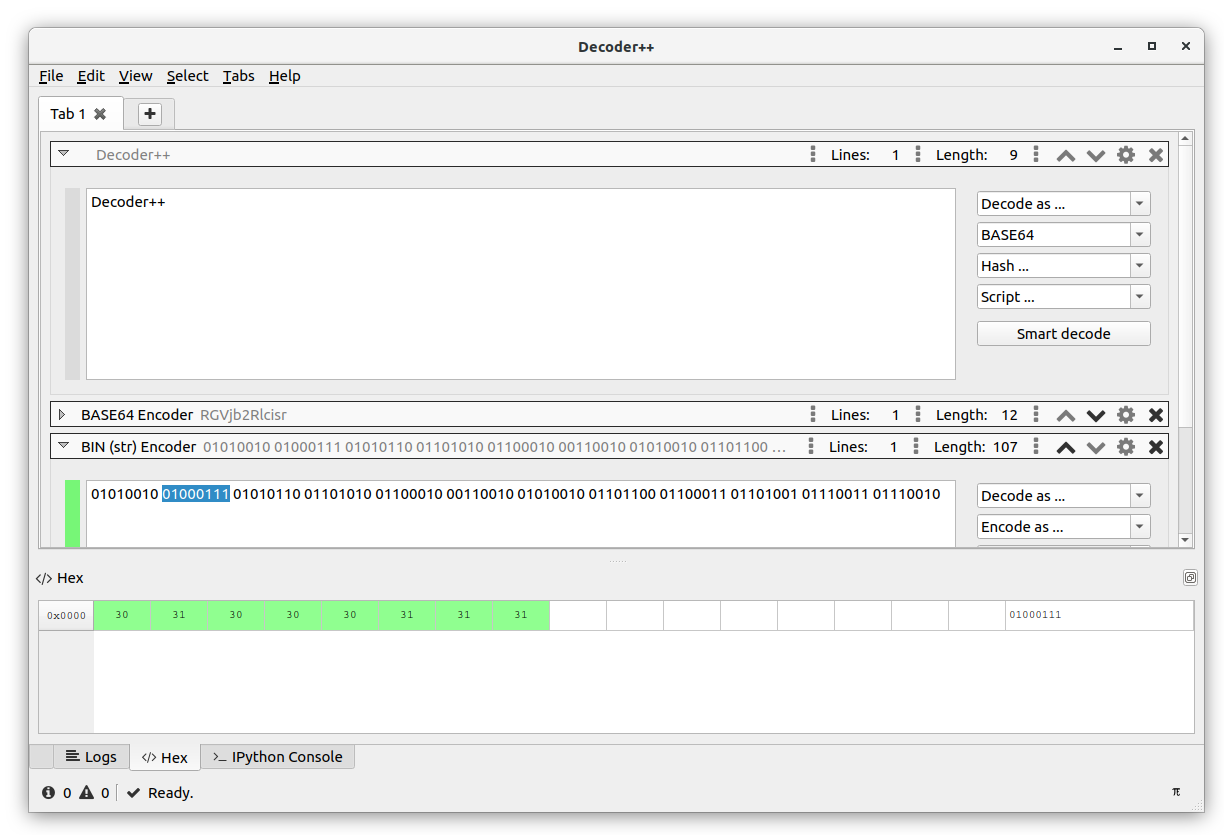
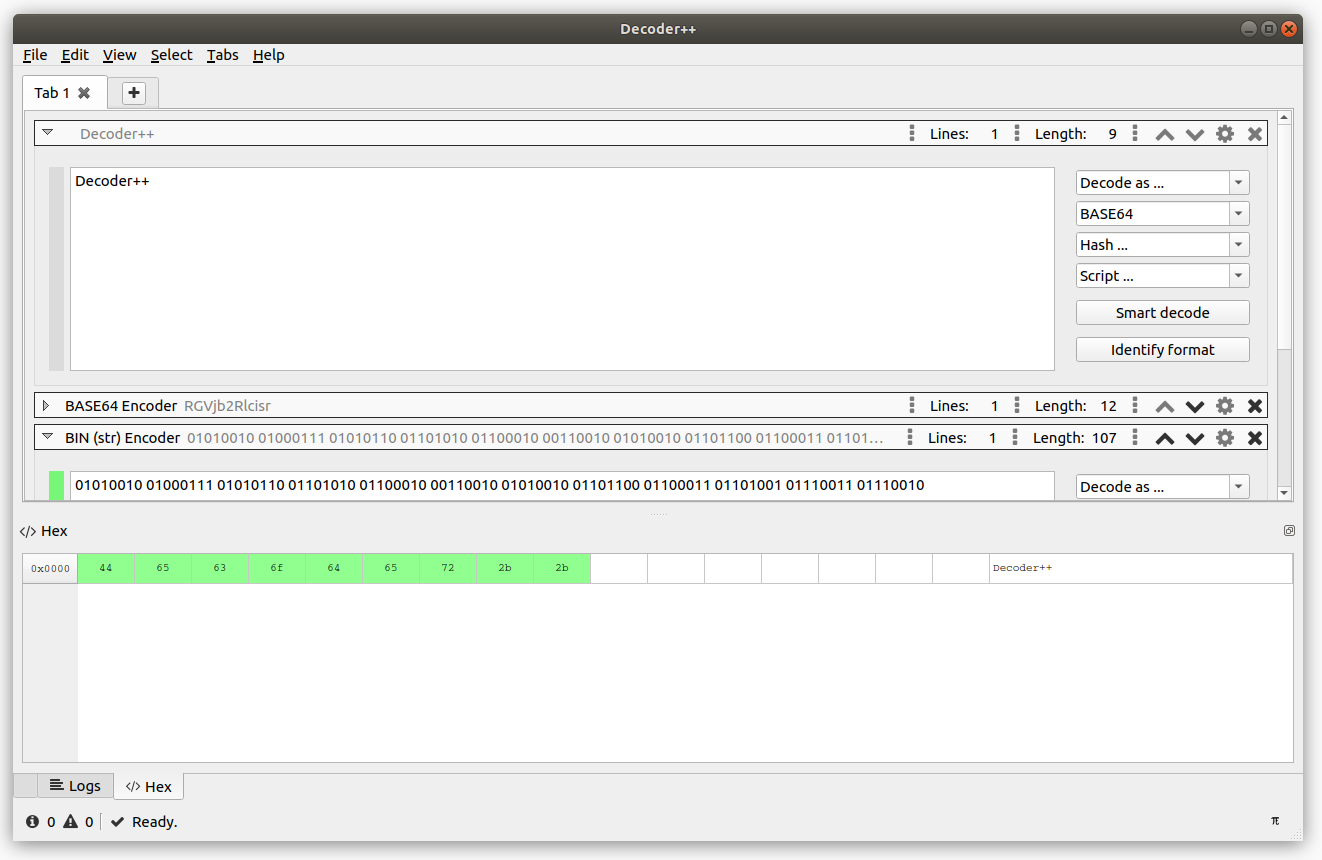
#37 Feature: Identify format button

Changed region(s): [[0.0, 0.0, 0.9935, 0.9964], [0.8072, 0.7162, 0.8693, 0.7473]]

diff --git a/dpp/ui/main_window_widget.py b/dpp/ui/main_window_widget.py
@@ -153,12 +153,12 @@ class MainWindowWidget(QWidget):
         self._register_shortcut(Context.Shortcut.FOCUS_INPUT_TEXT_NEXT,
                                 "Select &Next Text Field",
                                 "Alt+Down",
-                                lambda: self._focus_input_text(lambda frame: frame.next()),
+                                lambda: self._focus_input_text(lambda frame: frame.getNextFrame()),
                                 select_menu)
         self._register_shortcut(Context.Shortcut.FOCUS_INPUT_TEXT_PREVIOUS,
                                 "Select &Previous Text Field",
                                 "Alt+Up",
-                                lambda: self._focus_input_text(lambda frame: frame.previous()),
+                                lambda: self._focus_input_text(lambda frame: frame.getPreviousFrame()),
                                 select_menu)
         return select_menu
 
@@ -167,7 +167,7 @@ class MainWindowWidget(QWidget):
         self._register_shortcut(Context.Shortcut.TAB_RENAME,
                                 "&Rename Tab",
                                 "Alt+Shift+R",
-                                lambda: self._tabs.tabBar().rename_tab(),
+                                lambda: self._tabs.tabBar().renameTab(),
                                 tab_menu)
         self._register_shortcut(Context.Shortcut.TAB_DUPLICATE,
                                 "&Duplicate Tab",
@@ -253,14 +253,14 @@ class MainWindowWidget(QWidget):
             future_frame = callback(frame) or frame
             future_frame.focusInputText()
             # Collapse/Uncollapse frames automatically.
-            if self._tabs.currentWidget().getFramesCount() > 2:
+            if self._tabs.currentWidget().frames().getFramesCount() > 2:
                 if frame != future_frame:
                     if future_frame.isCollapsed():
-                        if future_frame.hasPrevious():
+                        if future_frame.hasPreviousFrame():
                             # Toggle frame, except the first frame which does not have a header
                             future_frame.toggleCollapsed()
                     if not frame.wasCollapseStateChangedByUser():
-                        if frame.hasPrevious():
+                        if frame.hasPreviousFrame():
                             # Collapse frame, except the first frame which does not have a header
                             frame.toggleCollapsed()
 

diff --git a/dpp/ui/codec_frame.py b/dpp/ui/codec_frame.py
@@ -27,6 +27,7 @@ from dpp.ui.codec_frame_header import CodecFrameHeader
 from dpp.ui.combo_box_frame import ComboBoxFrame
 from dpp.ui.view.plain_view import PlainView
 from dpp.ui.widget.collapsible_frame import CollapsibleFrame
+from dpp.ui.widget.identify_format_button import IdentifyFormatButton
 from dpp.ui.widget.smart_decode_button import SmartDecodeButton
 from dpp.ui.widget.status_widget import StatusWidget
 
@@ -109,6 +110,9 @@ class CodecFrame(CollapsibleFrame):
         self._smart_decode_button = SmartDecodeButton(self, self._plugins.filter(type=PluginType.DECODER))
         self._smart_decode_button.clicked.connect(self._smart_decode_button_click_event)
         button_frame_layout.addWidget(self._smart_decode_button)
+        self._identify_format_button = IdentifyFormatButton(self, self._plugins.filter(type=PluginType.IDENTIFY))
+        self._identify_format_button.clicked.connect(self._identify_format_button_click_event)
+        button_frame_layout.addWidget(self._identify_format_button)
         button_frame_layout.addWidget(VSpacer(self))
         button_frame.setLayout(button_frame_layout)
         return button_frame
@@ -141,6 +145,8 @@ class CodecFrame(CollapsibleFrame):
 
     def _smart_decode_button_click_event(self):
         input = self._plain_view_widget.toPlainText()
+        if not input:
+            return None
         # TODO: Split Button and Processing
         decoders = self._smart_decode_button.get_possible_decoders(input)
         if not decoders:
@@ -156,6 +162,17 @@ class CodecFrame(CollapsibleFrame):
         decoder = decoders[0]
         self._logger.info("Possible match: {}".format(decoder.title()))
         self.selectComboBoxEntryByPlugin(decoder)
+
+    def _identify_format_button_click_event(self):
+        input = self._plain_view_widget.toPlainText()
+        if not input:
+            return None
+        for decoder in self._smart_decode_button.get_possible_decoders(input):
+            self._logger.info("{}: {}".format("Identify Decoder", decoder.name()))
+        for identifier in self._identify_format_button.get_possible_identifiers(input):
+            result = identifier.run(input)
+            for item in result.splitlines():
+                self._logger.info("{}: {}".format(identifier.name(), item))
 
     def id(self) -> str:
         return self._frame_id

diff --git a/dpp/ui/widget/identify_format_button.py b/dpp/ui/widget/identify_format_button.py
@@ -1,0 +1,62 @@
+# vim: ts=8:sts=8:sw=8:noexpandtab
+#
+# This file is part of Decoder++
+#
+# This program is free software; you can redistribute it and/or modify
+# it under the terms of the GNU General Public License as published by
+# the Free Software Foundation; either version 2 of the License, or
+# (at your option) any later version.
+#
+# This program is distributed in the hope that it will be useful,
+# but WITHOUT ANY WARRANTY; without even the implied warranty of
+# MERCHANTABILITY or FITNESS FOR A PARTICULAR PURPOSE. See the
+# GNU General Public License for more details.
+#
+# You should have received a copy of the GNU General Public License
+# along with this program.  If not, see <http://www.gnu.org/licenses/>.
+from typing import List
+
+from PyQt5.QtCore import pyqtSignal
+from PyQt5.QtWidgets import QFrame, QHBoxLayout, QPushButton
+
+from dpp.core.plugin import IdentifyPlugin, AbstractPlugin
+
+
+class IdentifyFormatButton(QFrame):
+    """ A button which provides a identify-format functionality. """
+
+    clicked = pyqtSignal()
+
+    def __init__(self, parent, plugins: List[IdentifyPlugin]):
+        super(__class__, self).__init__(parent)
+        self._plugins = plugins
+        layout = QHBoxLayout()
+        layout.setContentsMargins(0, 6, 0, 0)
+        self._button = self._init_button()
+        layout.addWidget(self._button)
+        self.setLayout(layout)
+
+    def _init_button(self):
+        button = QPushButton("Identify format")
+        button.clicked.connect(self._button_click_event)
+        return button
+
+    def _button_click_event(self):
+        """ Forwards the "Identify format" button click event. """
+        self.clicked.emit()
+
+
+    def _test_plugins(self, input, plugins) -> List[AbstractPlugin]:
+        """ Returns a list of plugins which did not threw an error when executing them with the specified input. """
+        plugins_without_error = []
+        for plugin in plugins:
+            try:
+                plugin.select(input)
+                plugins_without_error.append(plugin)
+            except:
+                pass
+        return plugins_without_error
+
+    def get_possible_identifiers(self, input) -> List[str]:
+        """ Returns a list of possible identifiers for the specified input. """
+        return self._test_plugins(input, self._plugins)

diff --git a/dpp/core/plugin.py b/dpp/core/plugin.py
@@ -30,6 +30,7 @@ class PluginType(object):
     ENCODER = "Encoder"
     HASHER = "Hasher"
     SCRIPT = "Script"
+    IDENTIFY = "Identify"
 
 
 class PluginConfig(object):
@@ -271,7 +272,7 @@ class AbstractPlugin(object):
         """
         Initializes a plugin.
         :param name: the name of the plugin.
-        :param type: the type of the plugin (either DECODER, ENCODER, HASHER or SCRIPT).
+        :param type: the type of the plugin (either DECODER, ENCODER, HASHER, SCRIPT, IDENTIFY).
         :param author: the author of the plugin.
         :param dependencies: the dependencies of the plugin (either None or a list of strings).
         :param context: the application context.
@@ -341,7 +342,7 @@ class AbstractPlugin(object):
         return self._method_name
 
     def type(self) -> str:
-        """ :returns the type of the plugin (either DECODER, ENCODER, HASHER or SCRIPT). """
+        """ :returns the type of the plugin (either DECODER, ENCODER, HASHER, SCRIPT, IDENTIFY). """
         return self._type
 
     def title(self) -> str:
@@ -540,6 +541,19 @@ class ScriptPlugin(AbstractPlugin):
         super(__class__, self).__init__(name, PluginType.SCRIPT, author, dependencies, context)
 
 
+class IdentifyPlugin(AbstractPlugin):
+
+    def __init__(self, name: str, author: str, dependencies: List[str], context: 'core.context.Context'):
+        """
+        Initializes a plugin.
+        :param name: the name of the plugin.
+        :param author: the author of the plugin.
+        :param dependencies: the dependencies of the plugin (either None or a list of strings).
+        :param context: the application context.
+        """
+        super(__class__, self).__init__(name, PluginType.IDENTIFY, author, dependencies, context)
+
+
 class NullPlugin(AbstractPlugin):
     """ Implements a plugin which can be used as a Null-Object. """
 
@@ -661,7 +675,7 @@ class Plugins:
 
     def types(self) -> List[str]:
         """ Returns all possible plugin types in a list. """
-        return [PluginType.DECODER, PluginType.ENCODER, PluginType.HASHER, PluginType.SCRIPT]
+        return [PluginType.DECODER, PluginType.ENCODER, PluginType.HASHER, PluginType.SCRIPT, PluginType.IDENTIFY]
 
     def plugins(self) -> List[AbstractPlugin]:
         return self._plugin_list

diff --git a/dpp/runner.py b/dpp/runner.py
@@ -42,7 +42,7 @@ if DPP_PACKAGE_PATH not in sys.path:
 from dpp.core.argparse.ordered_multi_args import OrderedMultiArgs
 from dpp.core.argparse.single_args import SingleArgs
 from dpp.core.context import Context
-from dpp.core.decoder_plus_plus import Decoder, Encoder, Hasher, Script, DecoderPlusPlus
+from dpp.core.decoder_plus_plus import Decoder, Encoder, Hasher, Script, DecoderPlusPlus, Identify
 from dpp.core.plugin import PluginType
 
 from dpp.ui.decoder_plus_plus_gui import DecoderPlusPlusDialog, DecoderPlusPlusWindow
@@ -154,7 +154,13 @@ def init_builder(context: 'dpp.core.context.Context'):
         setattr(clazz, plugin.method_name(), runner(plugin))
 
     plugins = context.plugins()
-    clazz_map = {PluginType.ENCODER: Encoder, PluginType.DECODER: Decoder, PluginType.HASHER: Hasher, PluginType.SCRIPT: Script}
+    clazz_map = {
+        PluginType.ENCODER: Encoder,
+        PluginType.DECODER: Decoder,
+        PluginType.HASHER: Hasher,
+        PluginType.SCRIPT: Script,
+        PluginType.IDENTIFY: Identify
+    }
     for plugin in plugins.plugins():
         if not plugin.type() in clazz_map:
             context.logger().debug("Can not load plugin '{}'! Invalid type '{}'!".format(plugin.name(safe_name=True), plugin.type()))

diff --git a/dpp/core/decoder_plus_plus.py b/dpp/core/decoder_plus_plus.py
@@ -41,6 +41,10 @@ class DecoderPlusPlus(object):
         """ Returns the script interface which encapsulates all possible scripting methods. """
         return Script(self._input)
 
+    def identify(self) -> 'DecoderPlusPlus':
+        """ Returns the identify interface which encapsulates all possible identify methods. """
+        return Identify(self._input)
+
     def run(self):
         """ Starts the transformation process and returns the transformed input. """
         return self._input
@@ -50,3 +54,4 @@ Encoder = type('obj', (DecoderPlusPlus,), {})
 Decoder = type('obj', (DecoderPlusPlus,), {})
 Hasher = type('obj', (DecoderPlusPlus,), {})
 Script = type('obj', (DecoderPlusPlus,), {})
+Identify = type('obj', (DecoderPlusPlus,), {})

diff --git a/dpp/plugins/identify_hash_format_script.py b/dpp/plugins/identify_hash_format_script.py
@@ -1,14 +1,14 @@
-from dpp.core.plugin import ScriptPlugin
+from dpp.core.plugin import IdentifyPlugin
 
 
-class Plugin(ScriptPlugin):
+class Plugin(IdentifyPlugin):
     """
     Identifies the hash format of the input text based on structure.
     """
 
     def __init__(self, context):
         # Name, Author, Dependencies
-        super().__init__('Identify Data Format', "Thomas Engel", ["hashid"], context)
+        super().__init__('Identify Hash Format', "Thomas Engel", ["hashid"], context)
 
     def _detect_hash_format(self, input):
         from hashid import HashID

diff --git a/dpp/ui/codec_frames.py b/dpp/ui/codec_frames.py
@@ -93,7 +93,7 @@ class CodecFrames(QFrame):
             status = StatusWidget.ERROR
             error = str(e)
             self._logger.error('{} {}: {}'.format(plugin.name(), plugin.type(), error))
-            self._logger.exception(e, exc_info=self._context.isDebugModeEnabled())
+            self._logger.exception(error, exc_info=self._context.isDebugModeEnabled())
 
         self.newFrame(output, plugin.title(), frame_index, status=status, msg=error).focusInputText()
 

diff --git a/dpp/core/context.py b/dpp/core/context.py
@@ -108,7 +108,7 @@ class Context(QObject):
     def _init_logger(self, log_format):
         """ Returns the logger. """
         logger = logging.getLogger(self._app_id)
-        log_level = logging.DEBUG if self.config.isDebugModeEnabled() else logging.WARN
+        log_level = logging.DEBUG if self.config.isDebugModeEnabled() else logging.INFO
 
         logging.root.setLevel(log_level)
         console_logger = logging.StreamHandler(sys.stderr)

diff --git a/setup.py b/setup.py
@@ -11,7 +11,7 @@ README = (HERE / "README.md").read_text()
 # This call to setup() does all the work
 setup(
     name="decoder-plus-plus",
-    version="1.2.0",
+    version="1.2.1",
     description="An extensible application for penetration testers and software developers to decode/encode data into various formats.",
     long_description=README,
     long_description_content_type="text/markdown",

diff --git a/dpp/plugins/identify_file_type_script.py b/dpp/plugins/identify_file_type_script.py
@@ -1,7 +1,7 @@
-from dpp.core.plugin import ScriptPlugin
+from dpp.core.plugin import IdentifyPlugin
 
 
-class Plugin(ScriptPlugin):
+class Plugin(IdentifyPlugin):
     """
     Detects the file type of the input text based on magic bytes.
     """

diff --git a/README.md b/README.md
@@ -121,7 +121,7 @@ from dpp.core.plugin.abstract_plugin import DecoderPlugin
 
 class Plugin(DecoderPlugin):
     """
-    Possible plugins are DecoderPlugin, EncoderPlugin, HasherPlugin or ScriptPlugin.
+    Possible plugins are DecoderPlugin, EncoderPlugin, HasherPlugin, ScriptPlugin or IdentifyPlugin.
     See AbstractPlugin or it's implementations for more information.
     """ 
 
